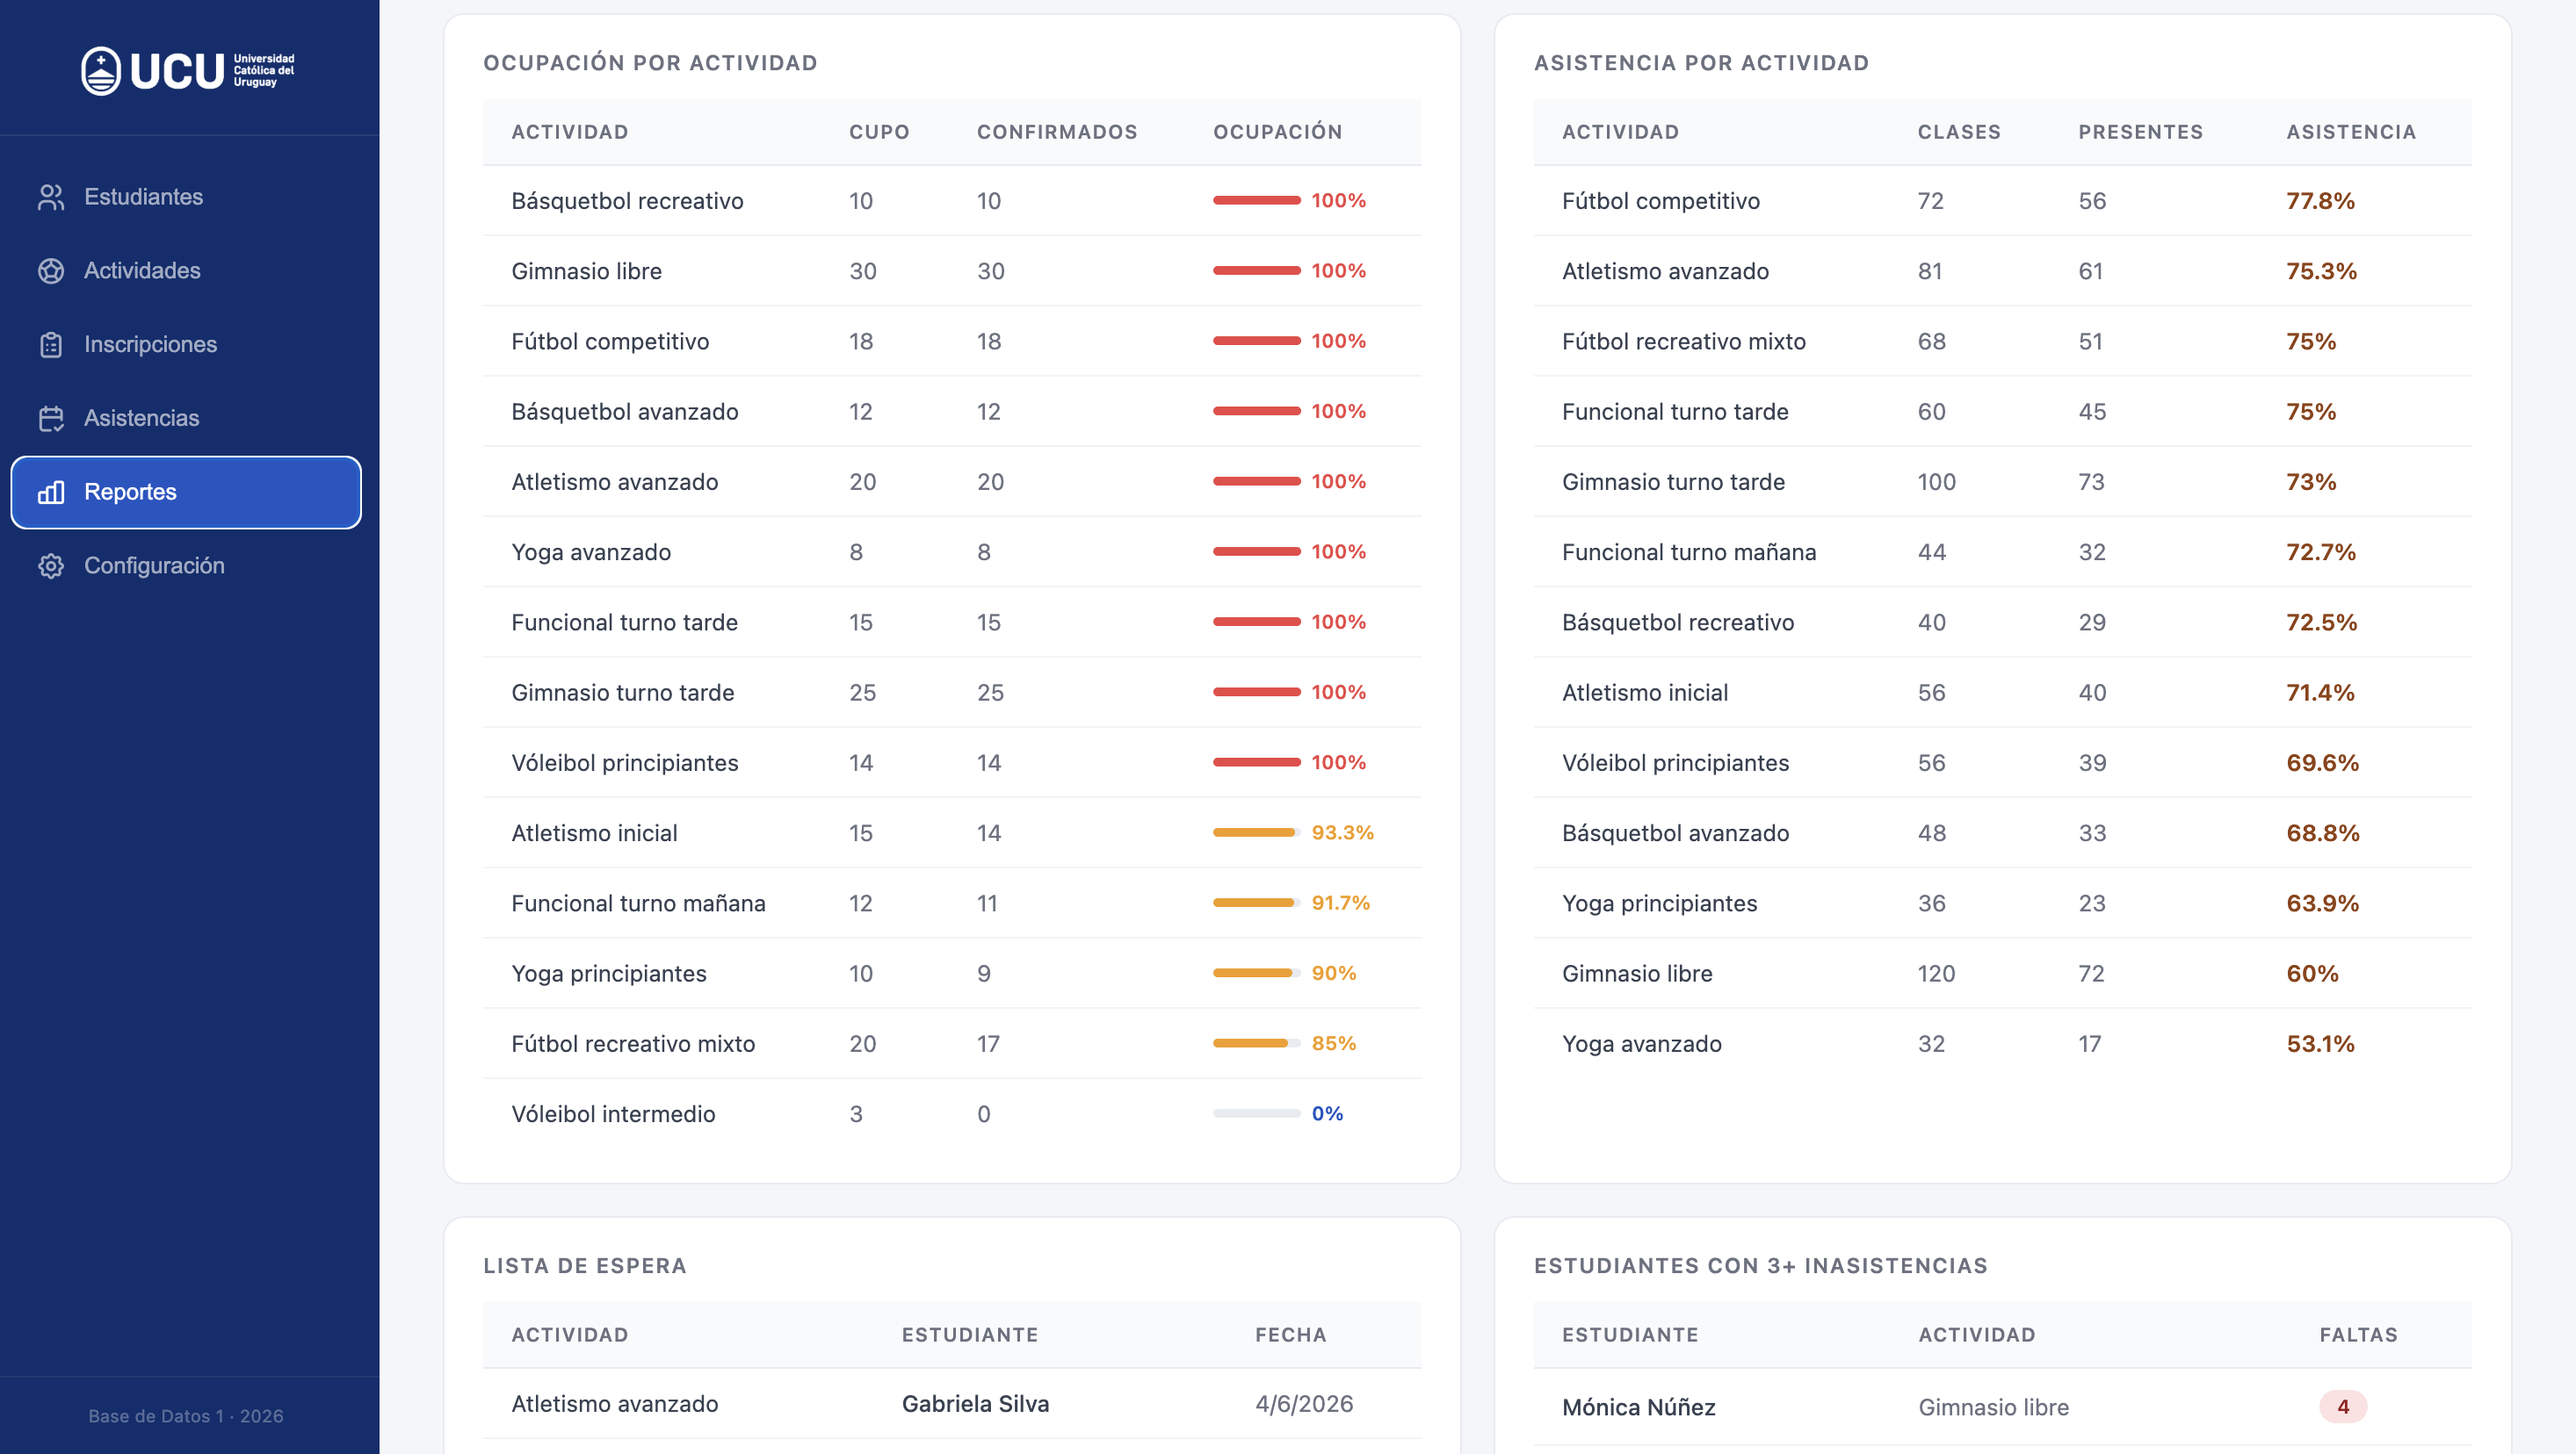
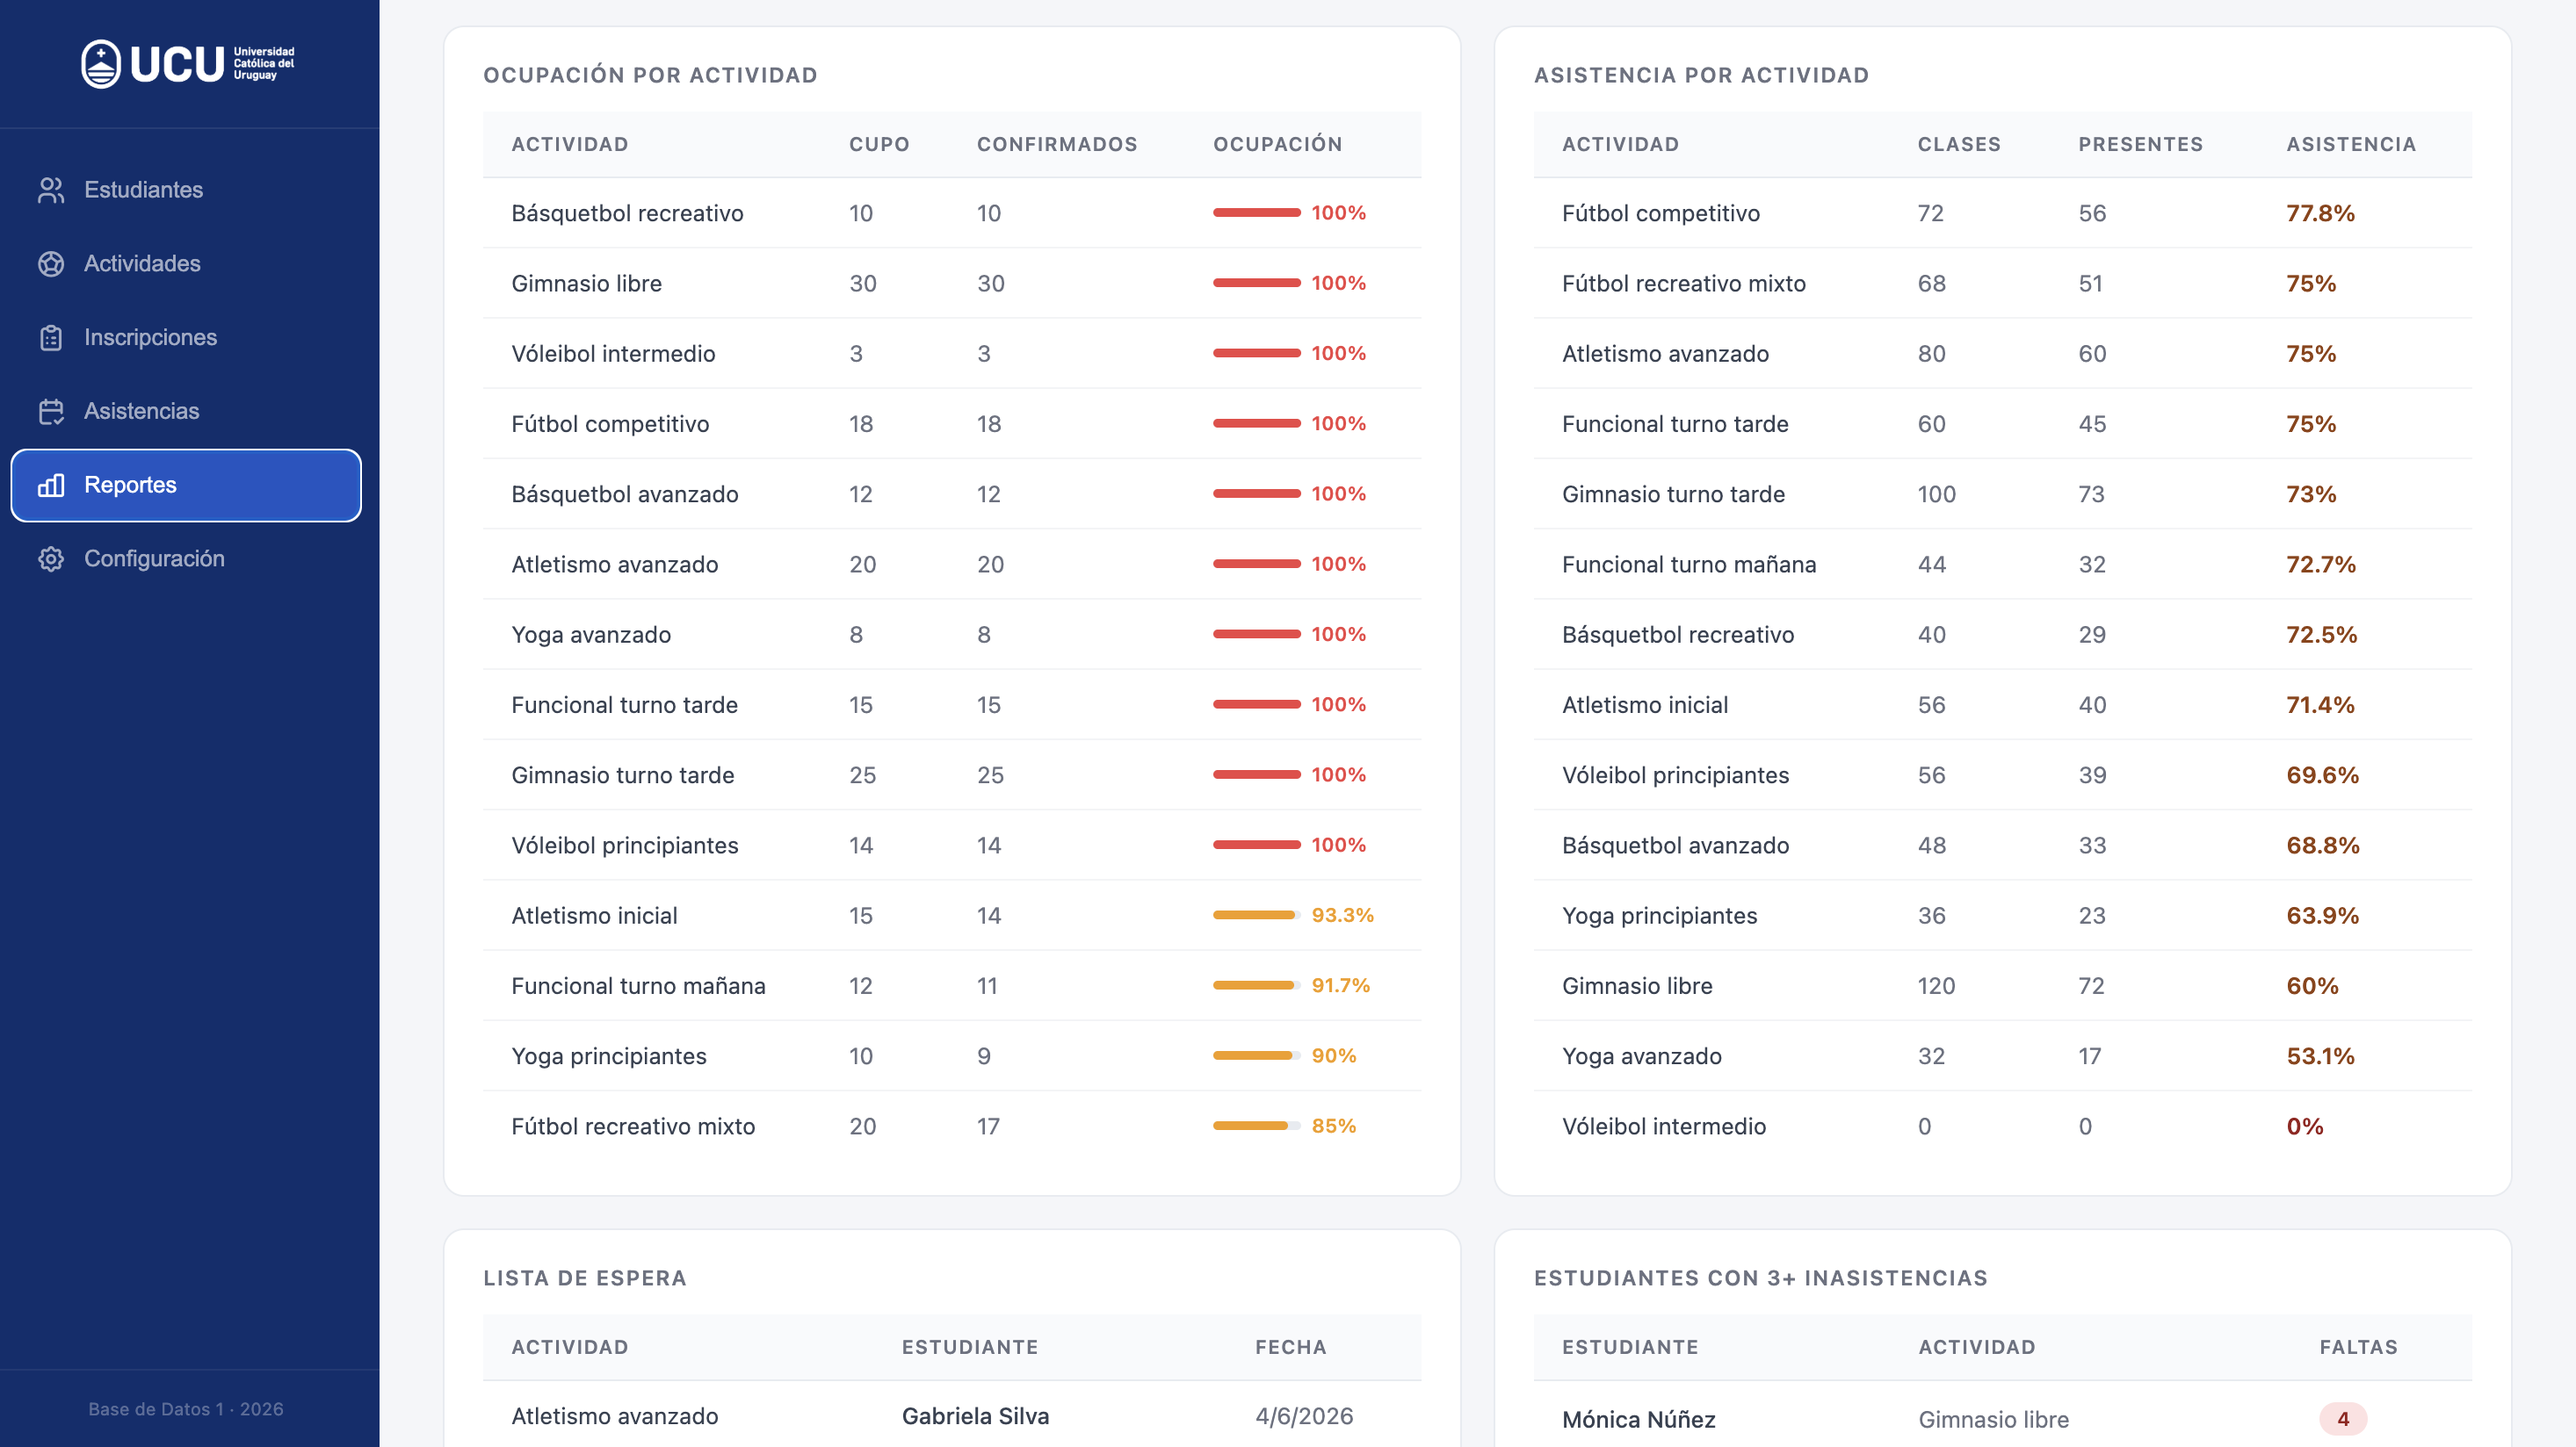
Actualizar captura de reportes y corregir descripcion en README

diff --git a/README.md b/README.md
@@ -54,7 +54,7 @@ Panel superior con estadisticas globales: inscripciones confirmadas, estudiantes
 **Ocupacion y asistencia por actividad**
 ![Reportes 2](docs/reportes_2.png)
 
-Reporte de ocupacion de cada actividad con barra de progreso que cambia de color segun el nivel: azul para disponible, naranja para casi lleno y rojo para completo. Reporte de asistencia por actividad con porcentaje coloreado segun el nivel de presencia.
+Reporte de ocupacion de cada actividad con barra de progreso que cambia de color segun el nivel: azul para disponible, naranja para casi lleno y rojo para completo. Reporte de asistencia por actividad con porcentaje de asistencia por actividad ordenado de mayor a menor
 
 **Estudiantes mas activos y actividades sin inscriptos**
 ![Reportes 3](docs/reportes_3.png)
